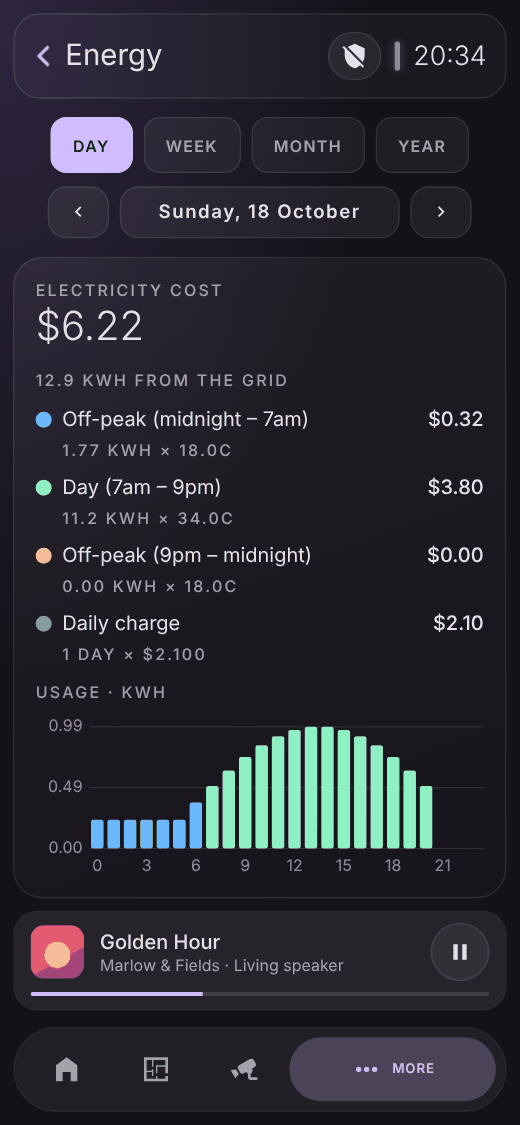
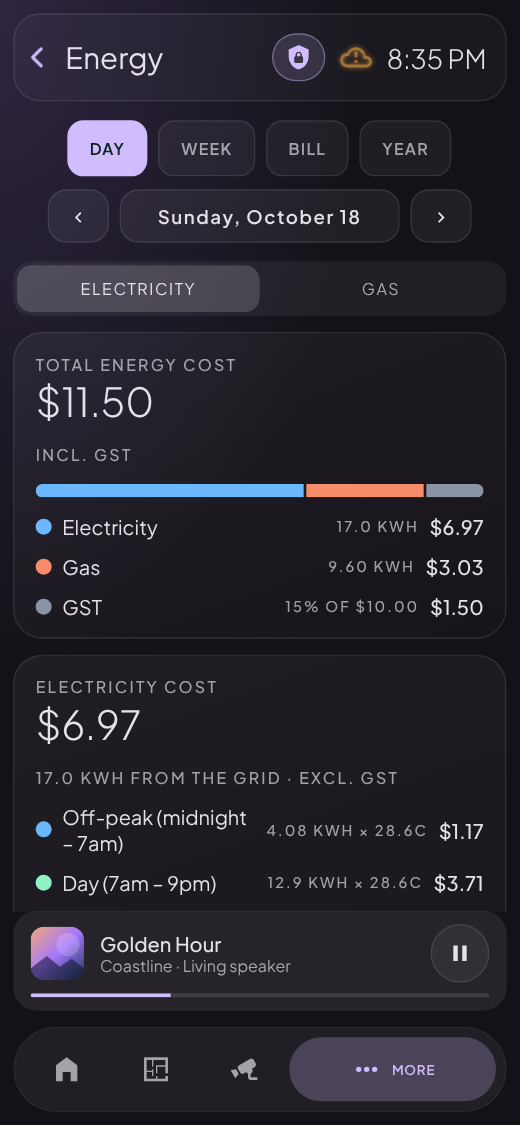
README: live demo link, new Energy, Artist and Seasonal sections, new screenshots and four new animations
Claude-Session: https://claude.ai/code/session_018c18WeHv3PzTvnLNrGEBeo

diff --git a/README.md b/README.md
@@ -4,6 +4,8 @@
 
 **Kinetic** is a fast, fluid dashboard for [Home Assistant](https://www.home-assistant.io) on phones, tablets and wall displays. It is **one HTML file** (`dash.html`) plus **one config file** (`config.js`). No build step to install it, no custom card, no integration, no YAML.
 
+**[Try the live demo](https://elementzoom.co.nz/demo/)**: the real dashboard running on a pretend house, guided tour or free play. Nothing in it controls a real home.
+
 > See [CHANGELOG.md](CHANGELOG.md) for what changed in each version.
 
 > `config.example.js` contains invented sample data only. Copy it to `config.js` and replace the entity ids with your own.
@@ -37,6 +39,35 @@ Mock-up screens with invented data and generated camera images.
 
 All pages are in [`docs/screenshots`](docs/screenshots) for both devices and both themes.
 
+### Energy
+Rebuilt around real power bills: Total, Electricity and Gas side by side on a tablet, one scrolling column on a phone. Real prices from Home Assistant's Energy settings when you have them, a daily-charge line, GST, and a **BILL** tab that follows your billing cycle instead of the calendar month.
+
+| Tablet, dark | Tablet, light |
+|---|---|
+| ![](docs/screenshots/tablet-dark-energy.png) | ![](docs/screenshots/tablet-light-energy.png) |
+
+| Phone, dark | Phone, light | Switching Electricity, Gas and periods |
+|---|---|---|
+| ![](docs/screenshots/phone-dark-energy.png) | ![](docs/screenshots/phone-light-energy.png) | ![](docs/animations/energy.gif) |
+
+### Media and artist info
+Synced lyrics and an **Artist** tab beside the player. The artist page has a photo header, a short description, a start year, links to Spotify and Wikipedia, and a bio (from Wikipedia, matched by exact title so you get the right artist). `artistInfo: { deezer: true }` adds a Deezer photo and fan count. On a phone Artist is a swipe page in the Now Playing sheet.
+
+| Tablet | Phone | In the Now Playing sheet |
+|---|---|---|
+| ![](docs/screenshots/tablet-dark-artist.png) | ![](docs/screenshots/phone-dark-artist.png) | ![](docs/animations/artist.gif) |
+
+Light: [tablet](docs/screenshots/tablet-light-artist.png), [phone](docs/screenshots/phone-light-artist.png).
+
+### Seasonal themes
+Eight seasons with their own colours and decorations: Christmas, New Year, Halloween, Valentine's, Matariki, Easter, Diwali and Chinese New Year. Switch them on per device on the Theme page (or `seasonal: true` in `config.js`) and they start and stop by themselves on the right dates. Cameras are left alone.
+
+![The eight seasons on the tablet Home page](docs/screenshots/seasons-tablet.png)
+
+![Christmas, Halloween, Matariki and Diwali](docs/animations/seasons.gif)
+
+Each season at full size is in [`docs/screenshots/seasons`](docs/screenshots/seasons).
+
 ### Four styles
 Pick a style on the Theme page. Each one works in dark and light, with any colour preset.
 
@@ -66,11 +97,16 @@ All four styles for Home, Rooms and Theme are in [`docs/screenshots/styles`](doc
 |---|---|---|
 | ![](docs/animations/garage.gif) | ![](docs/animations/irrigation.gif) | ![](docs/animations/rooms.gif) |
 
+| Energy | Artist info | Weather forecast tabs |
+|---|---|---|
+| ![](docs/animations/energy.gif) | ![](docs/animations/artist.gif) | ![](docs/animations/weather.gif) |
+
 ## Highlights
 **Look and feel**
 - Dark, light, follow device, **follow sun** (`sun.sun`) or a **time schedule**; colour presets; four styles (**Kinetic**, **Liquid Glass**, **Material**, **Minimal**); four font choices.
 - Smooth page, tab and filter transitions, floating bars and slide-up sheets on phones, respecting "reduce motion".
 - Weather-aware greeting card with animated weather.
+- **Seasonal themes** for eight festivals, with a seasonal touch on your logo; 12- or 24-hour clock on each device.
 
 **Home and rooms**
 - Home cards for status, cameras, rooms, heat pump and forecast, arranged per device.
@@ -83,7 +119,9 @@ All four styles for Home, Rooms and Theme are in [`docs/screenshots/styles`](doc
 - **Garage door alert**: a red frame and "GARAGE OPEN" band while the door is open, amber "OPENING" / "CLOSING" while it moves, without covering the buttons.
 - **Playback** of recordings in grid or list view, with person, vehicle and animal filters and previews from Home Assistant's saved detection snapshots.
 - **Recent detections** across all cameras, filterable by type, camera and time range.
-- Alarm panel and siren controls; a two-camera view that follows what is happening.
+- **Marks on recordings and live cameras**: the person, car or animal that moves is boxed (optional on-device recognition keeps shadows and bushes out).
+- Pinch to zoom on full-screen cameras and recordings.
+- Alarm panel and siren controls with buttons that glow by state; a two-camera view that follows what is happening.
 
 **People and access**
 - **Access panel** (admins only): choose per person which pages, rooms and Security features they see. Changes apply live.
@@ -95,7 +133,9 @@ All four styles for Home, Rooms and Theme are in [`docs/screenshots/styles`](doc
 - Water taps show the same rolling water as the Irrigation page. Anything with a running timer (taps, towel rails, fans) shows a live countdown.
 
 **More pages**
-- Climate, Energy, Irrigation (floating zone bar, duration buttons 5 minutes to 2 hours with a countdown, soil sensors, rain-skip hint), Media (Sonos grouping, synced lyrics, artist info from Wikipedia), Events, Vehicle, Hazards, Weather.
+- Climate, Irrigation (floating zone bar, duration buttons 5 minutes to 2 hours with a countdown, soil sensors, rain-skip hint), Scenes (original artwork for every light scene), Events (calendar with colours per event), Vehicle, Hazards, Weather.
+- **Energy** that matches a power bill: real prices, gas, GST, daily charges and a billing-cycle tab.
+- **Media**: Sonos grouping, synced lyrics, and artist info (Wikipedia, optional Deezer photo and fans).
 
 **Simple to run**
 - One engine, one config. Averages and groups are calculated for you, so no template sensors are needed.
@@ -121,6 +161,7 @@ Every page and pop-up has a link, so a Home Assistant notification, button or au
 
 ## Notes
 - Tested in a mock browser (Playwright with a fake Home Assistant) at phone and tablet sizes; always check on your own devices.
+- All screenshots and animations on this page come from the [live demo](https://elementzoom.co.nz/demo/)'s pretend house: invented names, entities and cameras.
 - Credits for icons, fonts and data sources are in [CREDITS.md](CREDITS.md).
 
 ## Licence
